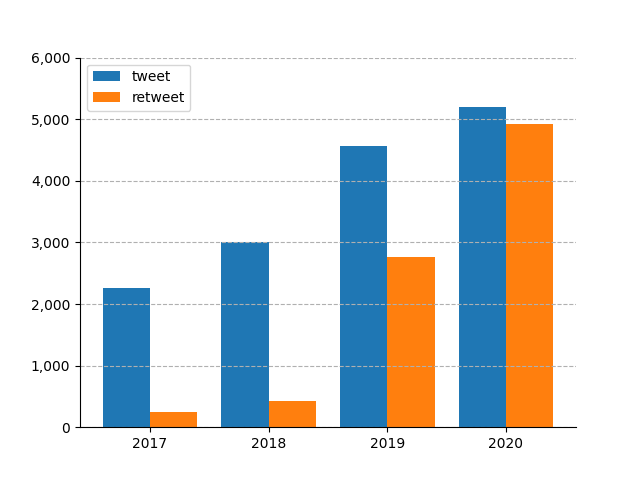
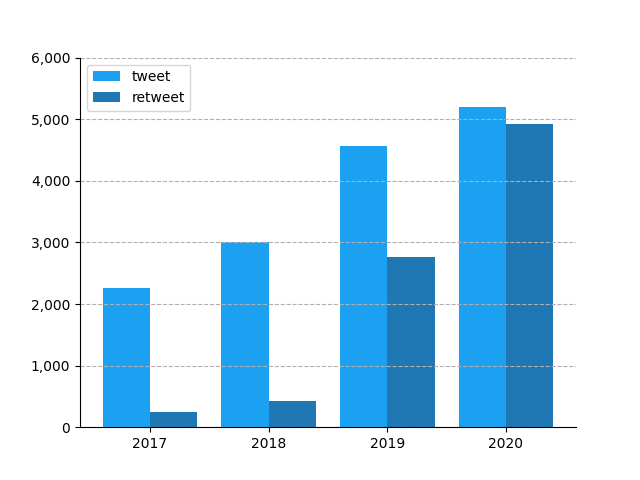
add new chart

diff --git a/scripts/make_charts.py b/scripts/make_charts.py
@@ -11,6 +11,9 @@ total = len(df)
 print('found {} total tweets'.format(total))
 
 
+# twitter color (29, 161, 242) (0.11, 0.63, 0.95)
+tcolor = (0.11, 0.63, 0.95)
+
 # list of years
 yrs_array = df['created_yy'].unique()
 yrs = sorted(yrs_array) # [2017, 2018, ...]
@@ -18,9 +21,16 @@ yrs = [str(yr) for yr in yrs]
 
 title = 'President Trump\'s Tweets\n'
 
+def cnt_days(start, end):
+    '''Count and return number of days in a closed period (including ends)
+    given by the two dates, start and end.
+    '''
+    delta = end - start
+    return delta.days
+
 def cnt_wkdays(start, end):
-    '''Count number of weekdays in a period given by two dates, start and end,
-    where both dates are inclusive. Return results as a list of 7 numbers,
+    '''Count and return number of weekdays in a closed period (including ends)
+    given by the two dates, start and end. Return results as a list of 7 numbers,
     Monday through Sunday, where each number is the count of that weekday.
     '''
     res = [0, 0, 0, 0, 0, 0, 0]
@@ -31,7 +41,6 @@ def cnt_wkdays(start, end):
         wday = cur.weekday()
         res[wday] = res[wday] + 1
     return res
-
 
 
 # 1: number of tweets by year
@@ -49,7 +58,7 @@ for y in yrs:
     cnt = len(df[df['created_yy'] == int(y)])
     ts.append(cnt)
 
-bars = ax.bar(yrs, ts)
+bars = ax.bar(yrs, ts, color=tcolor)
 
 # annotate top of each bar with count of tweets for the year that the bar represents
 for i, bar in enumerate(bars):
@@ -58,9 +67,12 @@ for i, bar in enumerate(bars):
     ax.annotate(
         tcount,
         xy=(bar.get_x() + bar.get_width() / 2, bar_height),
-        xytext=(0, 3),
+        xytext=(0, 5),
         textcoords='offset pixels',
-        horizontalalignment='center')
+        horizontalalignment='center',
+        fontsize='large',
+        fontweight='bold',
+        color=tcolor)
 
 # y-axis seems kind of short, so make it 5% taller 
 #_, _, ymin, ymax = plt.axis()
@@ -85,7 +97,6 @@ plt.close() # closes current figure (not required but keeps the memory clean)
 print('saved plot {}'.format(f_name))
 
 
-
 # 2: number of tweets by re-tweet vs tweet
 
 #title = 'Tweets vs. Retweets'
@@ -108,14 +119,8 @@ for y in yrs:
 yrs_tweet = np.arange(len(yrs)) - 0.2
 yrs_retwt = np.arange(len(yrs)) + 0.2
 
-bars = ax.bar(yrs_tweet, height=ts_tweet, width=0.4, label='tweet')
+bars = ax.bar(yrs_tweet, height=ts_tweet, width=0.4, label='tweet', color=tcolor)
 bars = ax.bar(yrs_retwt, height=ts_retwt, width=0.4, label='retweet')
-
-# y-axis by default is somewhat short, so make it 5% taller 
-#_, _, ymin, ymax = plt.axis()
-#ax.set(ylim=(ymin, ymax * 1.05)) 
-
-ax.legend()
 
 # set x-labels to years
 ax.set_xticks(np.arange(len(yrs)))
@@ -134,11 +139,12 @@ ax.grid(axis='y', which='major', linestyle='--')
 ax.spines['top'].set_visible(False)
 ax.spines['right'].set_visible(False)
 
+ax.legend()
+
 fig.savefig(f_name)
 plt.close() # closes current figure (not required but keeps the memory clean)
 
 print('saved plot {}'.format(f_name))
-
 
 
 # 3: number of tweets by month
@@ -153,14 +159,20 @@ ax = plt.subplot() # creates current axes
 #ax.set_ylabel('Number of Tweets')
 
 ts = []
+ts_avgs = []
 for y in yrs:
+    if y == '2020':
+        ts_avg = len(df[df.created_yy == int(y)]) / 11
+    else:
+        ts_avg = len(df[df.created_yy == int(y)]) / 12
+    ts_avgs.append(ts_avg)
     for m in range(1, 13):
         cnt = len(df[(df.created_yy == int(y)) & (df.created_mm == m)])
         ts.append(cnt)
 
 ms = len(yrs) * ['J', 'F', 'M', 'A', 'M', 'J', 'J', 'A', 'S', 'O', 'N', 'D'] 
 ms_array = np.arange(len(ms))
-ax.bar(ms_array, height=ts, width=0.6) 
+ax.bar(ms_array, height=ts, width=0.6, color=tcolor) 
 
 # set x-labels to months
 ax.set_xticks(ms_array)
@@ -180,7 +192,20 @@ xloc = [((n * 12) - 0.5) for n in range(1, len(yrs))]
 for n in xloc:
     ax.axvline(x=n, ymin=0, ymax=1, linestyle='--', color=(0.1, 0.2, 0.5, 0.5))
 
-# add years below x-axis,i.e. below months
+# add horizontal lines for monthly averages
+xmin = np.array([ 0, 12, 24, 36]) - 0.3 # starting points (adjusted by -0.3)
+xmax = np.array([11, 23, 35, 46]) + 0.3 # ending points (adjusted by + 0.3)
+label = 'Average tweets per month'
+my_red = (0.9, 0.17, 0.31, 0.9)
+ax.hlines(ts_avgs, xmin, xmax, color=my_red, label=label)
+
+# annotate horizontal lines (with the counts)
+for i, t in enumerate(ts_avgs):
+    x = i * 12 + 1
+    y = t + 10
+    ax.annotate('{:.1f}'.format(t), xy=(x, y), color=my_red, fontweight='bold')
+
+# add years below x-axis, i.e. below months
 for i, y in enumerate(yrs):
     ax.text(x=(i * 12 + 5.5), y=-150, s=y, horizontalalignment='center')
 
@@ -193,11 +218,12 @@ ax.set(xlim=(xmin, xmax))
 ax.spines['top'].set_visible(False)
 ax.spines['right'].set_visible(False)
 
+ax.legend()
+
 fig.savefig(f_name)
 plt.close() # closes current figure (not required but keeps the memory clean)
 
 print('saved plot {}'.format(f_name))
-
 
 
 # 4: number of tweets by day of the week
@@ -233,29 +259,96 @@ for i, y in enumerate(yrs):
     ts[int(y)] = t
 
 for i, ax in enumerate(axs):
-    ax.bar(np.arange(7), height=ts[int(yrs[i])])
+    ax.bar(np.arange(7), height=ts[int(yrs[i])], color=tcolor)
 
-# get largest ymax across all plots
+# get largest ymax among all plots
 ymaxs = []
 for ax in axs:
     _, ymax = ax.get_ylim()
     ymaxs.append(ymax)
-max_ymax = max(ymaxs)
+ymax = max(ymaxs)
 
 wkds = ['Sun', 'Mon', 'Tue', 'Wed', 'Thu', 'Fri', 'Sat']
 
 for i, ax in enumerate(axs):
-    ax.set_ylim(ymax = max_ymax)
-    ax.grid(axis='y', which='major', linestyle='--')
+    ax.set_ylim(ymax=ymax)
+    #ax.grid(axis='y', which='major', linestyle='--')
     ax.set_xticks(np.arange(len(wkds)))
     ax.set_xticklabels(wkds)
+    ax.set_title(yrs[i], y=0.9)
     ax.spines['top'].set_visible(False)
     ax.spines['right'].set_visible(False)
-    ax.set_title(yrs[i], y=0.95)
 
 fig.savefig(f_name)
 plt.close() # closes current figure (not required but keeps the memory clean)
 
 print('saved plot {}'.format(f_name))
+
+
+
+# 5: number of tweets by time of day
+
+#title = 'Tweets by Time of Day'
+f_name = 'plt_05.png'
+
+fig = plt.figure(figsize=(8.32, 6.24), tight_layout=True)
+#ax = plt.subplot()
+ax2017 = plt.subplot(2, 2, 1)
+ax2018 = plt.subplot(2, 2, 2)
+ax2019 = plt.subplot(2, 2, 3)
+ax2020 = plt.subplot(2, 2, 4)
+axs = [ax2017, ax2018, ax2019, ax2020]
+
+# precalc number of days
+# be careful with last day of 2020: should be day of last tweet
+days2017 = cnt_days(datetime.date(2017, 1, 1), datetime.date(2017, 12, 31))
+days2018 = cnt_days(datetime.date(2018, 1, 1), datetime.date(2018, 12, 31))
+days2019 = cnt_days(datetime.date(2019, 1, 1), datetime.date(2019, 12, 31))
+days2020 = cnt_days(datetime.date(2020, 1, 1), datetime.date(2020, 11, 7))
+days = [days2017, days2018, days2019, days2020]
+
+ts = []
+hs = list(range(24))
+for i, y in enumerate(yrs):
+    tweets = [0] * 24
+    for h in hs:
+        cnt = len(df[(df.created_yy == int(y)) & (df.created_hh == h)])
+        cnt_avg = cnt / days[i]
+        tweets[h] = cnt_avg
+    ts.append(tweets)
+
+for i, ax in enumerate(axs):
+    ax.bar(hs, height=ts[i], color=tcolor)
+    line = ax.axvline(x=12, ymin=0, ymax=0.7, linestyle='--', color=(1.0, 0.65, 0, 0.9))
+    ax.text(12, 2.25, 'Noon', color=(1.0, 0.65, 0, 1.0), fontweight='bold', ha='center')
+    #ax.minorticks_on()
+
+# get largest ymax among all plots
+ymaxs = []
+for ax in axs:
+    _, ymax = ax.get_ylim()
+    ymaxs.append(ymax)
+ymax = max(ymaxs)
+
+for i, ax in enumerate(axs):
+    ax.set_ylim(ymax=ymax)
+    ax.set_title(yrs[i], y=0.90)
+    ax.spines['top'].set_visible(False)
+    ax.spines['right'].set_visible(False)
+
+fig.savefig(f_name)
+plt.close()
+
+print('saved plot {}'.format(f_name))
+
+
+
+# 6: Average tweets per day, by month and year
+
+#title = 'Average Tweets per Day'
+f_name = 'plt_06.png'
+
+fig = plt.figure() # need figsize and tight_layout later
+ax = plt.subplot()
 
 

diff --git a/scripts/load_tweets.py b/scripts/load_tweets.py
@@ -21,6 +21,7 @@ df_cols = [
     'created_yy',
     'created_mm',
     'created_dd',
+    'created_hh',
     'created_wd', # weekday (monday=0, ..., sunday=6)
     'source', 
     'is_retweet', 
@@ -49,6 +50,7 @@ for i, t in enumerate(tweets):
     created_yy = created.year
     created_mm = created.month
     created_dd = created.day
+    created_hh = created.hour
     created_wd = created.weekday()
     #created_yy = created.year
     #created_mm = created.month
@@ -80,6 +82,7 @@ for i, t in enumerate(tweets):
         created_yy,
         created_mm,
         created_dd,
+        created_hh,
         created_wd,
         source,
         is_retweet,
@@ -101,6 +104,7 @@ df = df.astype({
     'created_yy': 'int64',
     'created_mm': 'int64',
     'created_dd': 'int64',
+    'created_hh': 'int64',
     'created_wd': 'int64',
     'source': 'string', 
     'is_retweet': 'boolean', 

diff --git a/README.md b/README.md
@@ -12,6 +12,8 @@ President Trump has sent a total of 23,384 tweets between January 1, 2017 and No
 
 ![Tweets by day of week][plt4]
 
+![Tweets by time of day][plt5]
+
 You can view any of the tweets from this this dataset at Twitter.com by replacing the ending of the link shown below with the id of the tweet you are interested in, and opening the link in your browser:
 
 https://twitter.com/realDonaldTrump/status/tweet-id-here
@@ -24,4 +26,5 @@ Last updated: November 11, 2020
 [plt2]: images/plt_02.png
 [plt3]: images/plt_03.png
 [plt4]: images/plt_04.png
+[plt5]: images/plt_05.png
 
